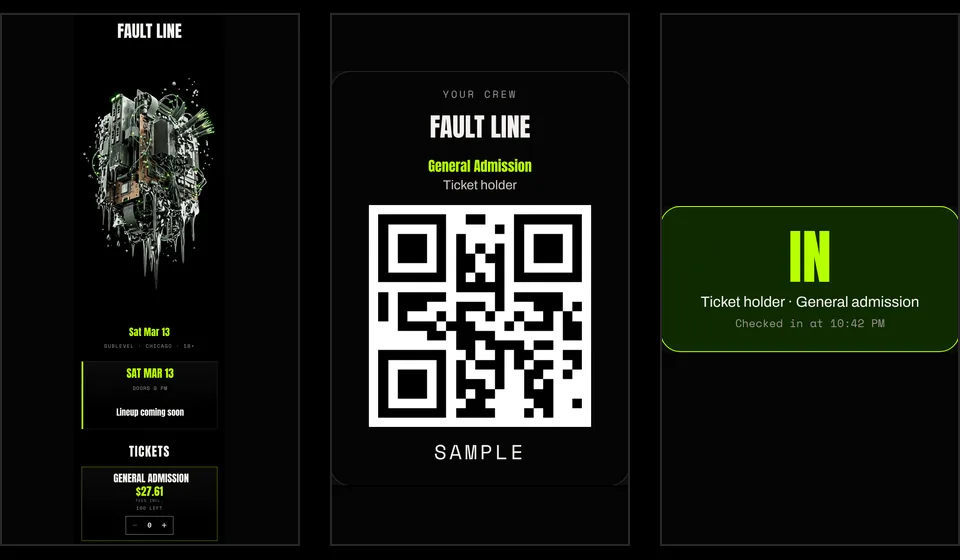
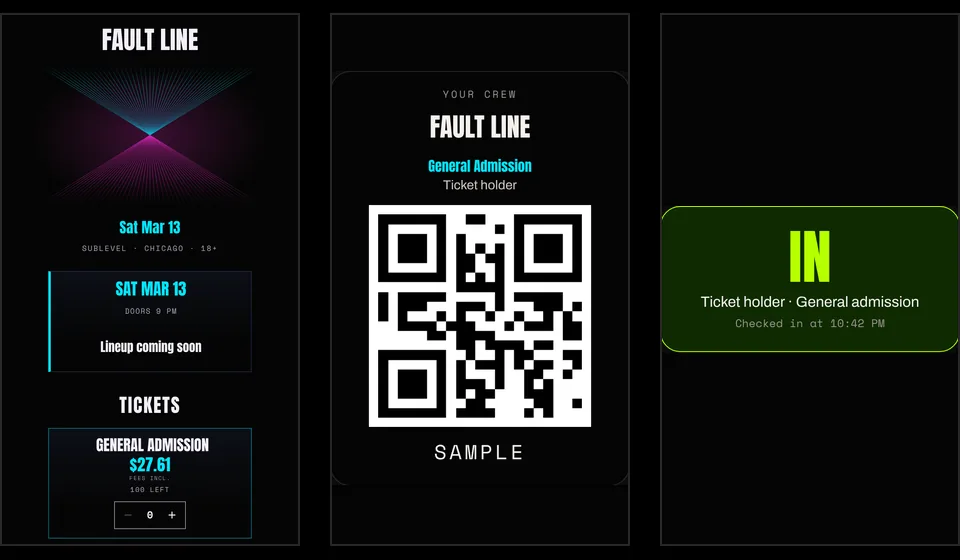
Sample show art: bring back the neon cyan and pink light-burst
Claude-Session: https://claude.ai/code/session_01JL6pXTQxRyec5H5yt3WRC2

diff --git a/site/assets/demo.css b/site/assets/demo.css
@@ -12,8 +12,10 @@ h2{font-family:var(--disp);font-weight:400;font-size:34px;line-height:1.02;text-
 .step{animation:in .35s ease both}@keyframes in{from{opacity:0;transform:translateY(10px)}to{opacity:1;transform:none}}
 .screen{border:1px solid var(--line);border-radius:22px;background:#050505;padding:16px 14px 20px;margin:0 auto 22px;box-shadow:0 0 0 6px #0c0c0c;overflow:hidden}
 .addr{font-family:var(--mono);font-size:11px;color:var(--mute);background:#111;border-radius:99px;padding:6px 10px;margin-bottom:12px}.addr b{color:var(--fg);font-weight:400}
-.sflyer{position:relative;margin:0 -14px 14px}.sflyer img{display:block;width:100%;height:auto;aspect-ratio:4/3;object-fit:cover;background:#000}
-.stag{position:absolute;left:10px;top:10px;font-family:var(--mono);font-size:10px;letter-spacing:.16em;text-transform:uppercase;background:#000;color:var(--hot);border:1px solid var(--hot);padding:4px 7px}
+.sflyer{position:relative;margin:0 -14px 14px}.burst svg{display:block;width:100%;height:auto}
+/* the sample show wears its own colors (neon cyan and pink), the door and dashboard stay Subduction */
+.screen.show,.screen.tk{--c1:#00e5ff;--c2:#ff2bd6}
+.stag{position:absolute;left:10px;top:10px;font-family:var(--mono);font-size:10px;letter-spacing:.16em;text-transform:uppercase;background:#000;color:var(--fg);border:1px solid var(--c2);padding:4px 7px}
 .sname{font-family:var(--show);font-size:34px;line-height:1;text-transform:uppercase}
 .sdate{font-family:var(--show);font-size:22px;color:var(--c1);margin-top:12px}
 .sinfo{font-family:var(--mono);font-size:11px;letter-spacing:.16em;text-transform:uppercase;color:var(--mute);margin:8px 0 16px}

diff --git a/site/assets/demo.js b/site/assets/demo.js
@@ -6,6 +6,13 @@
   var KEY = "sub_demo", lead = null, claimKey = "";
   var time = function (iso) { return new Date(iso).toLocaleTimeString("en-US", { hour: "numeric", minute: "2-digit" }); };
 
+  // The sample show's art: the neon light-burst, cyan up top and pink below.
+  (function () {
+    var L = "", i, x;
+    for (i = 0; i <= 40; i++) { x = (i / 40 * 800).toFixed(0); L += '<line x1="400" y1="210" x2="' + x + '" y2="0" stroke="#00e5ff"/><line x1="400" y1="210" x2="' + x + '" y2="420" stroke="#ff2bd6"/>'; }
+    $("burst").innerHTML = '<svg viewBox="0 0 800 420" aria-hidden="true" style="background:radial-gradient(ellipse at 50% 50%,#2a0a33,#050505 75%)"><g stroke-width="1" opacity=".75">' + L + "</g></svg>";
+  })();
+
   // The bars up top are buttons: tap any step you've already reached to go back (or forward again).
   var reached = 1;
   function go(n) {

diff --git a/site/demo.html b/site/demo.html
@@ -37,7 +37,7 @@
     <p class="lead">Your art, your colors, your name on it. Grab a test ticket and see the rest.</p>
     <div class="screen show">
       <div class="addr">subduction.art/<b>yourshow</b></div>
-      <div class="sflyer"><img src="assets/sample-flyer.webp" width="640" height="480" alt="Sample flyer art" decoding="async"><span class="stag">Sample show</span></div>
+      <div class="sflyer"><div class="burst" id="burst"></div><span class="stag">Sample show</span></div>
       <div class="sname">Fault Line</div>
       <div class="sdate">Sat Mar 13 · Doors 9 PM</div>
       <div class="sinfo">Sublevel · Chicago · 18+</div>
